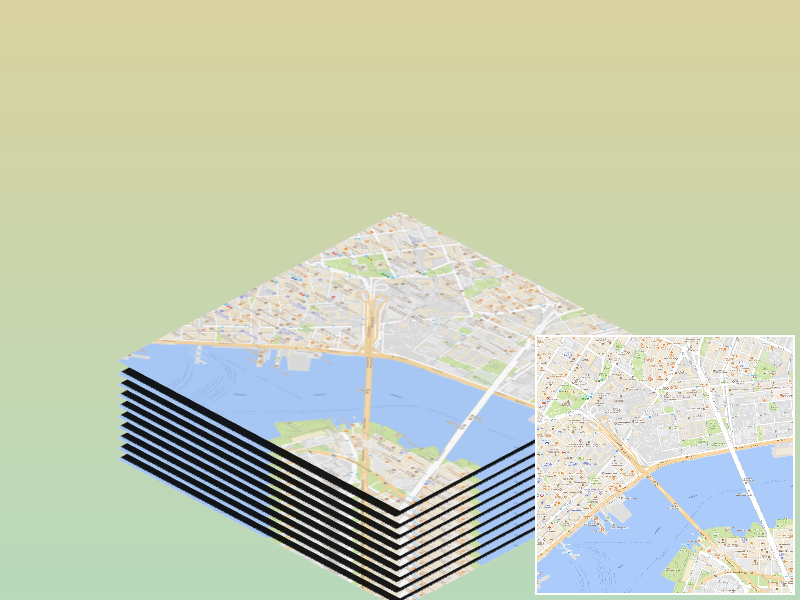
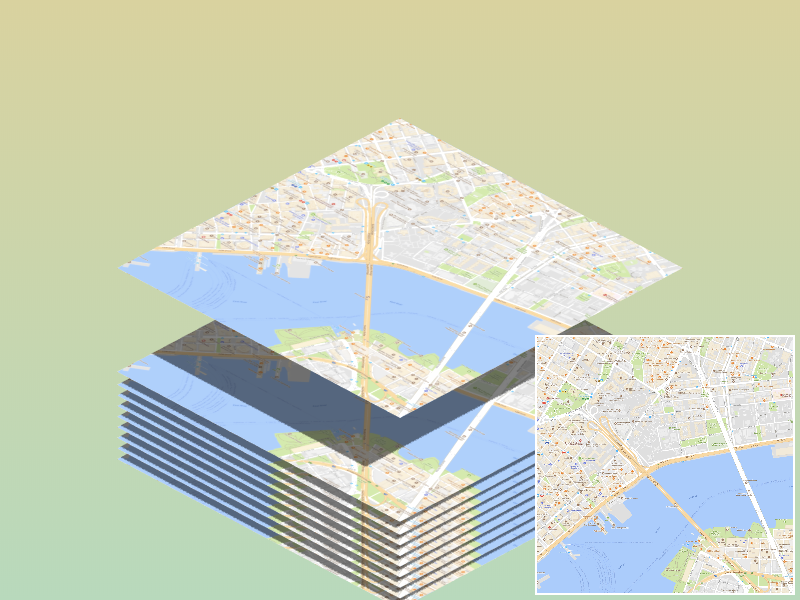
Tweak paper map animation example

diff --git a/examples/basicPaperMap.html b/examples/basicPaperMap.html
@@ -129,9 +129,9 @@ clay.application.create('#viewport', {
 
         var camera = app.createCamera([4, 4 * Math.sqrt(2), 4], [0, 0, 0], 'orthographic', [4, 4, 20]);
 
-        var light = app.createDirectionalLight([-1, -2, -0.5], '#fff', 1);
+        var light = app.createDirectionalLight([-1, -2, -0.5], '#fff', 0.6);
         light.shadowResolution = 1024;
-        app.createAmbientLight('#fff', 0.1);
+        app.createAmbientLight('#fff', 0.5);
 
         app.container.style.background = 'linear-gradient(rgb(218, 210, 153), rgb(176, 218, 185))';
     },

diff --git a/examples-src/basicPaperMap/basicPaperMap.js b/examples-src/basicPaperMap/basicPaperMap.js
@@ -77,9 +77,9 @@ clay.application.create('#viewport', {
 
         var camera = app.createCamera([4, 4 * Math.sqrt(2), 4], [0, 0, 0], 'orthographic', [4, 4, 20]);
 
-        var light = app.createDirectionalLight([-1, -2, -0.5], '#fff', 1);
+        var light = app.createDirectionalLight([-1, -2, -0.5], '#fff', 0.6);
         light.shadowResolution = 1024;
-        app.createAmbientLight('#fff', 0.1);
+        app.createAmbientLight('#fff', 0.5);
 
         app.container.style.background = 'linear-gradient(rgb(218, 210, 153), rgb(176, 218, 185))';
     },
